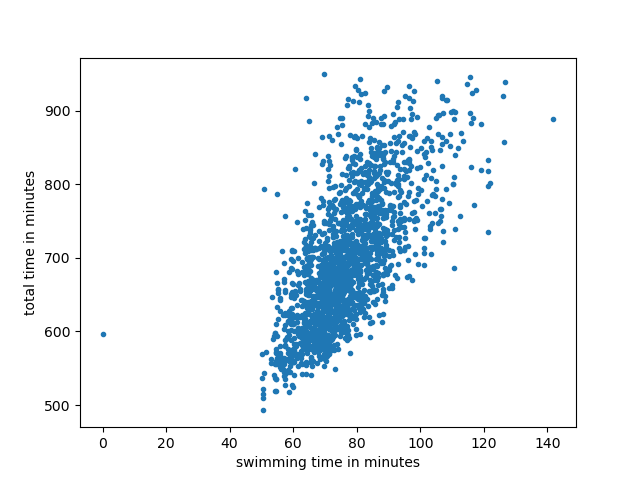
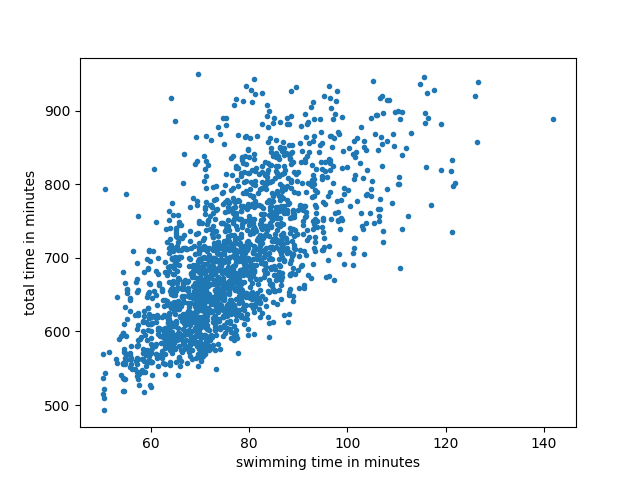
mboa

diff --git a/sheet_1/sheet1_mario_baumgartner_old.py b/sheet_1/sheet1_mario_baumgartner_old.py
@@ -1,0 +1,77 @@
+import numpy as np
+import matplotlib.pyplot as plt
+
+total_rank = []
+year_of_birth = []
+total_time = []
+swimming_time = []
+swimming_rank = []
+cycling_time = []
+cycling_rank = []
+running_time = []
+running_rank = []
+
+file = np.loadtxt('ironman.txt')
+
+for row in file:
+    '''I know its not part of the exersice but i dont want any 0 in my plots for obvious reasons. '''
+    if 0 not in row:
+        total_rank.append(float(row[0]))
+        year_of_birth.append(2010 - float(row[1]))
+        total_time.append(float(row[2]))
+        swimming_time.append(float(row[3]))
+        swimming_rank.append(float(row[4]))
+        cycling_time.append(float(row[5]))
+        cycling_rank.append(float(row[6]))
+        running_time.append(float(row[7]))
+        running_rank.append(float(row[8]))
+
+fig = plt.figure()
+plt.plot(total_rank, total_time, '.')
+plt.xlabel('total rank')
+plt.ylabel('total time in minutes')
+plt.savefig('total_rank_vs_total_time.png')
+# plt.show()
+plt.cla()
+plt.plot(year_of_birth, total_time, '.')
+plt.xlabel('age')
+plt.ylabel('total time in minutes')
+plt.savefig('age_vs_total_time.png')
+# plt.show()
+plt.cla()
+plt.plot(running_time, swimming_time, '.')
+plt.xlabel('running time in minutes')
+plt.ylabel('swimming time in minutes')
+plt.savefig('running_vs_swimming.png')
+# plt.show()
+plt.cla()
+plt.plot(swimming_time, total_time, '.')
+plt.xlabel('swimming time in minutes')
+plt.ylabel('total time in minutes')
+plt.savefig('swimming_vs_total.png')
+# plt.show()
+plt.cla()
+plt.plot(cycling_time, total_time, '.')
+plt.xlabel('cycling time in minutes')
+plt.ylabel('total time in minutes')
+plt.savefig('cycling_vs_total.png')
+# plt.show()
+plt.cla()
+plt.plot(running_time, total_time, '.')
+plt.xlabel('running time in minutes')
+plt.ylabel('total time in minutes')
+plt.plot('running_vs_total.png')
+# plt.show()
+plt.cla()
+plt.hist(total_time, range=[450, 1000], bins=np.linspace(450, 1000, 23))
+plt.xlabel('total time in minutes')
+plt.ylabel('amount of people')
+plt.savefig('total_time_hist.png')
+# plt.show()
+plt.cla()
+plt.hist(year_of_birth, range=[15, 17], bins=np.linspace(15, 75, 13))
+plt.xlabel('age')
+plt.ylabel('amount of people')
+plt.savefig('age_hist.png')
+# plt.show()
+plt.cla()

diff --git a/sheet_1/sheet1_mario_baumgartner.py b/sheet_1/sheet1_mario_baumgartner.py
@@ -1,2 +1,9 @@
 import numpy as np
 import matplotlib.pyplot as plt
+
+file = np.loadtxt('ironman.txt')
+
+print(file, type(file), file.shape)
+
+
+
